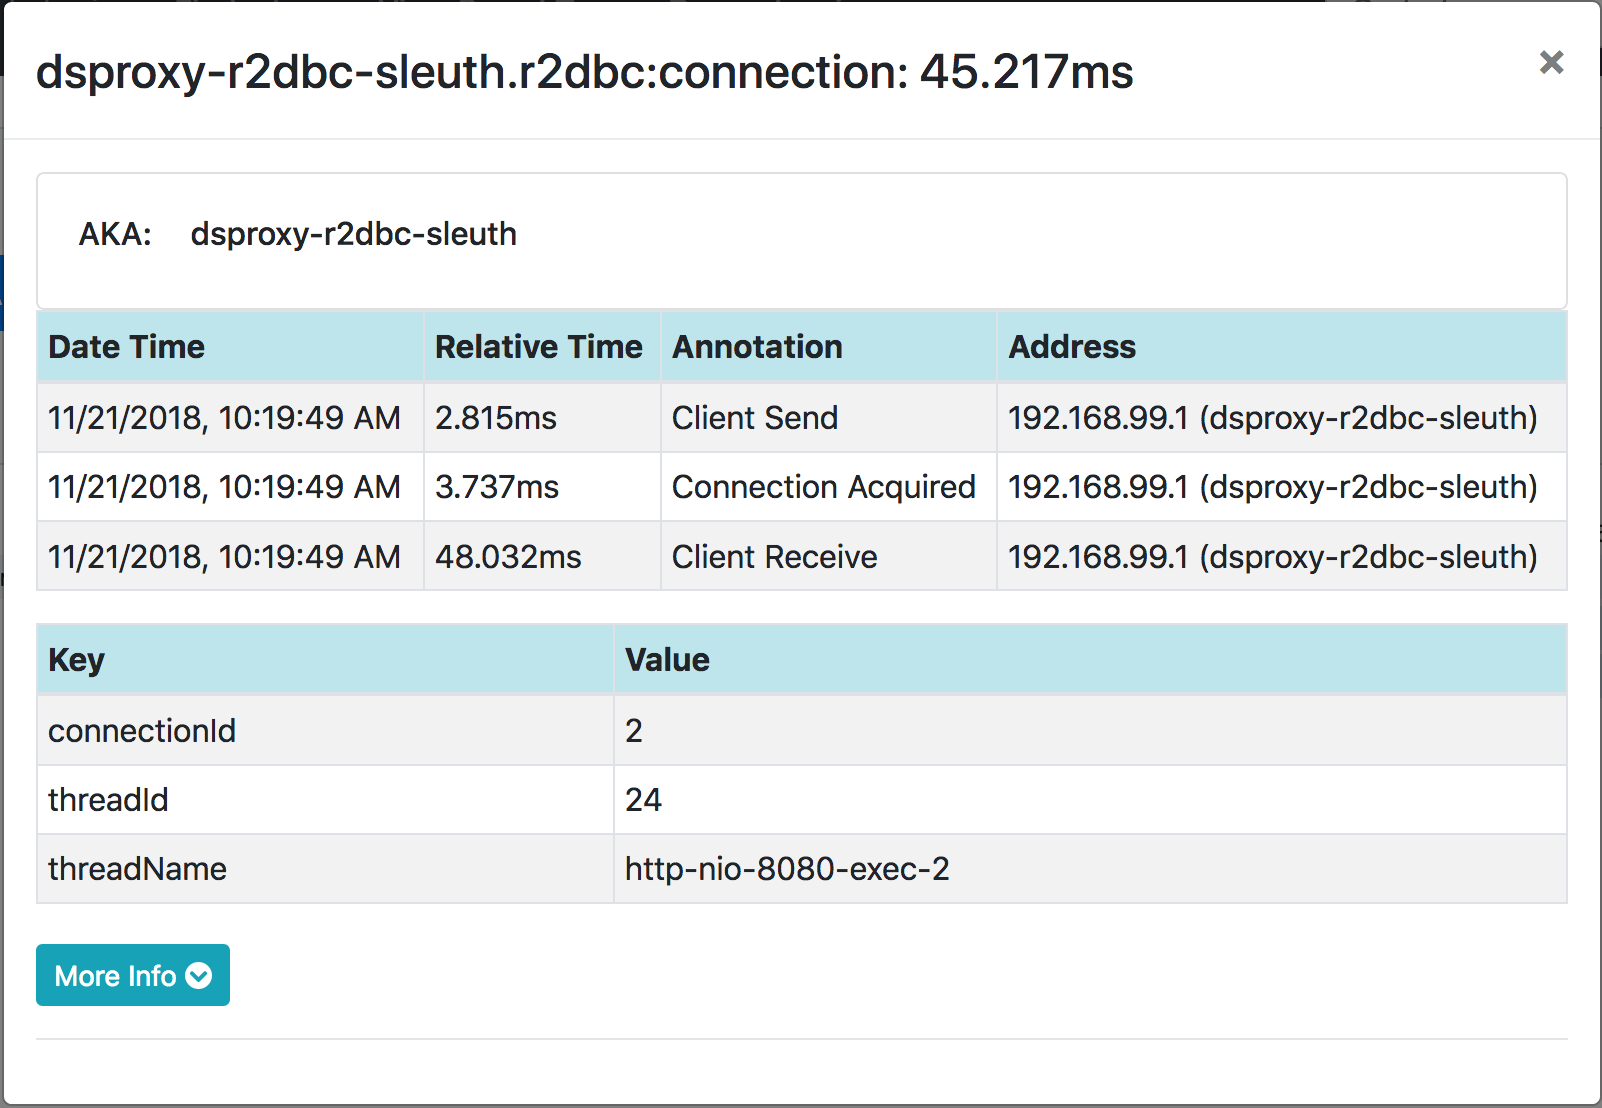
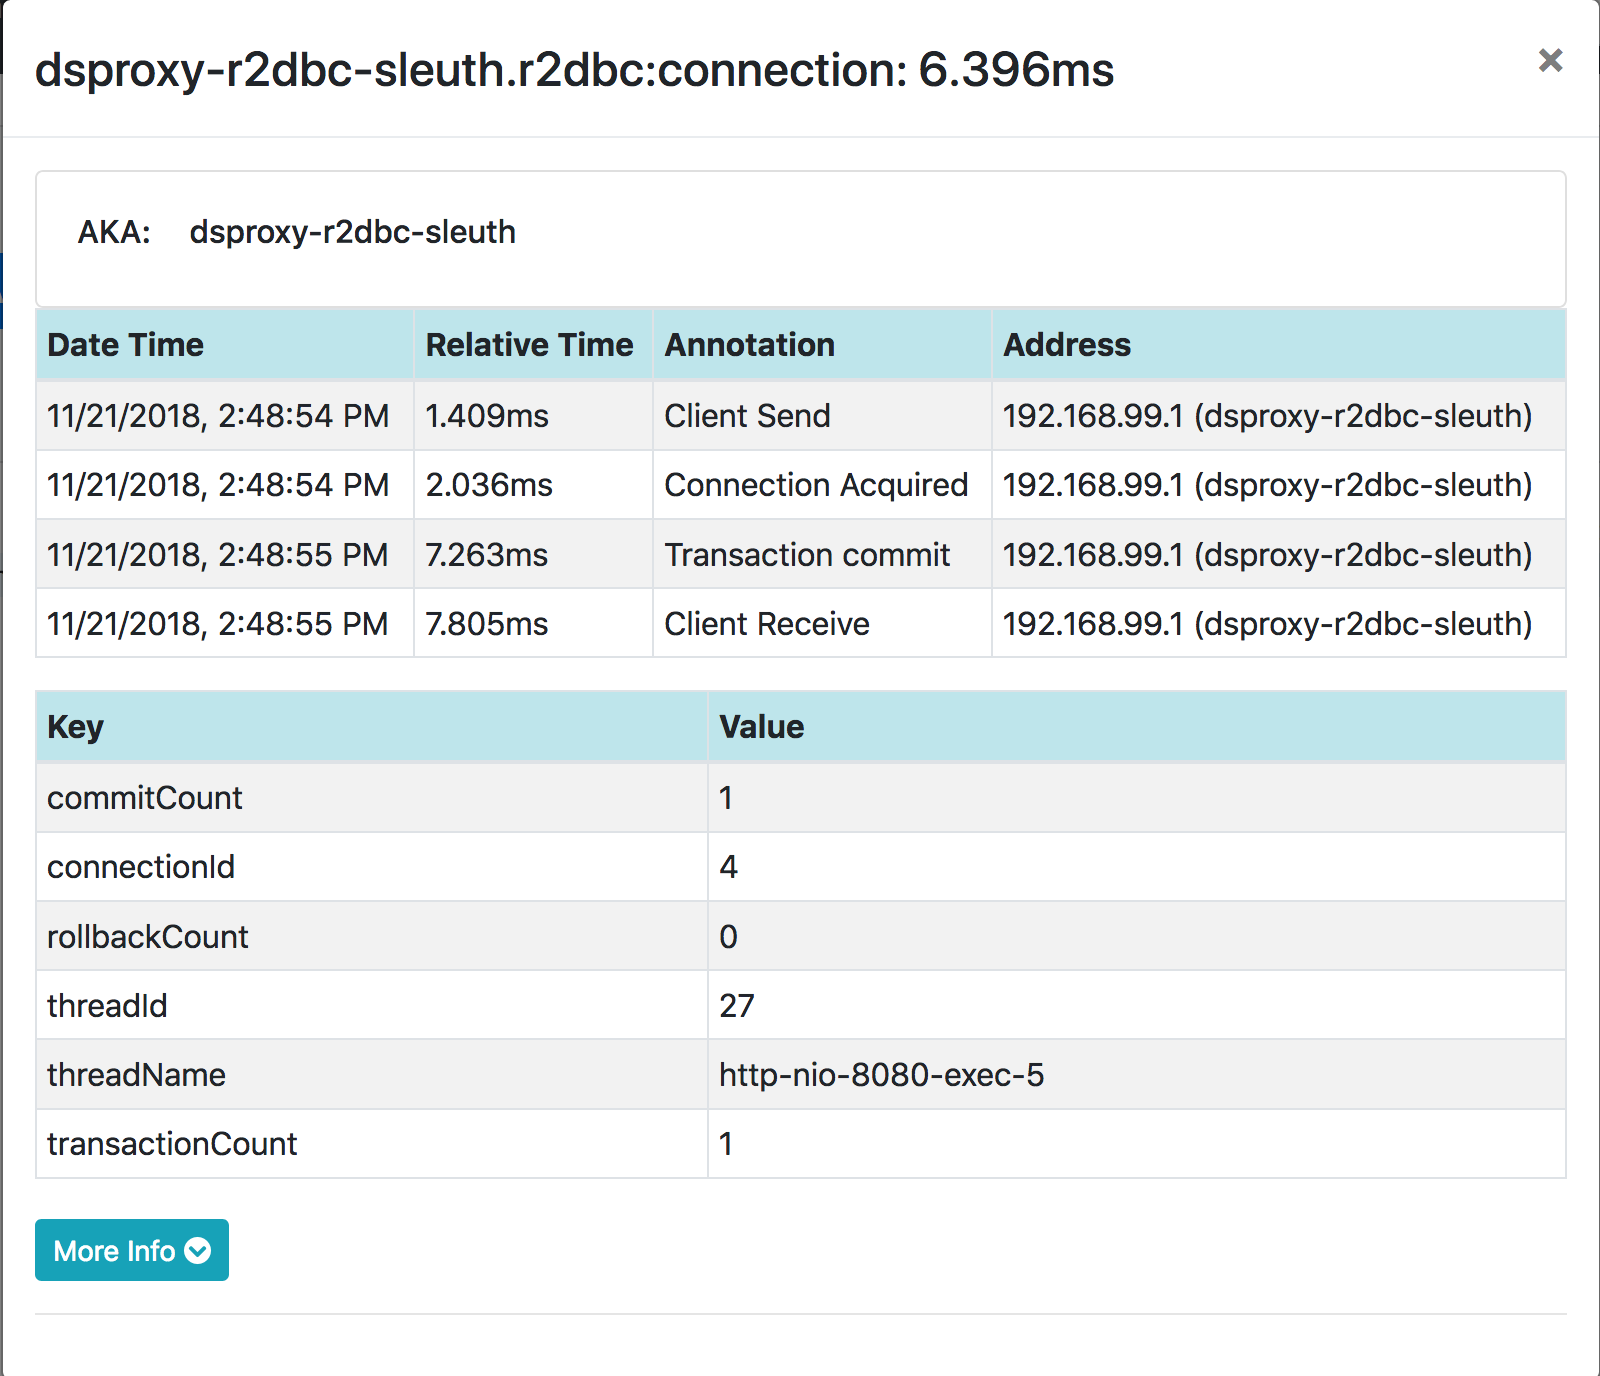
Add transaction info to connection span

diff --git a/dsp-r2dbc-tracing-sleuth/src/main/java/net/ttddyy/TracingExecutionListener.java b/dsp-r2dbc-tracing-sleuth/src/main/java/net/ttddyy/TracingExecutionListener.java
@@ -2,6 +2,7 @@ package net.ttddyy;
 
 import brave.Span;
 import brave.Tracer;
+import net.ttddyy.dsproxy.r2dbc.core.ConnectionInfo;
 import net.ttddyy.dsproxy.r2dbc.core.ExecutionType;
 import net.ttddyy.dsproxy.r2dbc.core.MethodExecutionInfo;
 import net.ttddyy.dsproxy.r2dbc.core.QueryExecutionInfo;
@@ -29,6 +30,9 @@ public class TracingExecutionListener implements LifeCycleListener {
     private static final String TAG_QUERY_SUCCESS = "success";
     private static final String TAG_QUERY_RESULT_COUNT = "resultCount";
     private static final String TAG_TRANSACTION_SAVEPOINT = "savepoint";
+    private static final String TAG_TRANSACTION_COUNT = "transactionCount";
+    private static final String TAG_COMMIT_COUNT = "commitCount";
+    private static final String TAG_ROLLBACK_COUNT = "rollbackCount";
 
     private Tracer tracer;
     private Map<String, Span> connectionSpans = new ConcurrentHashMap<>();
@@ -73,7 +77,8 @@ public class TracingExecutionListener implements LifeCycleListener {
 
     @Override
     public void afterCloseOnConnection(MethodExecutionInfo methodExecutionInfo) {
-        String connectionId = methodExecutionInfo.getConnectionInfo().getConnectionId();
+        ConnectionInfo connectionInfo = methodExecutionInfo.getConnectionInfo();
+        String connectionId = connectionInfo.getConnectionId();
         Span connectionSpan = this.connectionSpans.remove(connectionId);
         if (connectionSpan == null) {
             return;    // already closed
@@ -86,6 +91,9 @@ public class TracingExecutionListener implements LifeCycleListener {
                 .tag(TAG_CONNECTION_ID, connectionId)
                 .tag(TAG_THREAD_ID, String.valueOf(methodExecutionInfo.getThreadId()))
                 .tag(TAG_THREAD_NAME, methodExecutionInfo.getThreadName())
+                .tag(TAG_TRANSACTION_COUNT, String.valueOf(connectionInfo.getTransactionCount()))
+                .tag(TAG_COMMIT_COUNT, String.valueOf(connectionInfo.getCommitCount()))
+                .tag(TAG_ROLLBACK_COUNT, String.valueOf(connectionInfo.getRollbackCount()))
                 .finish();
     }
 
@@ -174,6 +182,9 @@ public class TracingExecutionListener implements LifeCycleListener {
                     .tag(TAG_THREAD_NAME, methodExecutionInfo.getThreadName())
                     .finish();
         }
+
+        Span connectionSpan = this.connectionSpans.get(connectionId);
+        connectionSpan.annotate("Transaction commit");
     }
 
     @Override
@@ -190,6 +201,8 @@ public class TracingExecutionListener implements LifeCycleListener {
                     .finish();
         }
 
+        Span connectionSpan = this.connectionSpans.get(connectionId);
+        connectionSpan.annotate("Transaction rollback");
     }
 
     @Override
@@ -208,5 +221,7 @@ public class TracingExecutionListener implements LifeCycleListener {
                     .finish();
         }
 
+        Span connectionSpan = this.connectionSpans.get(connectionId);
+        connectionSpan.annotate("Transaction rollback to savepoint");
     }
 }
